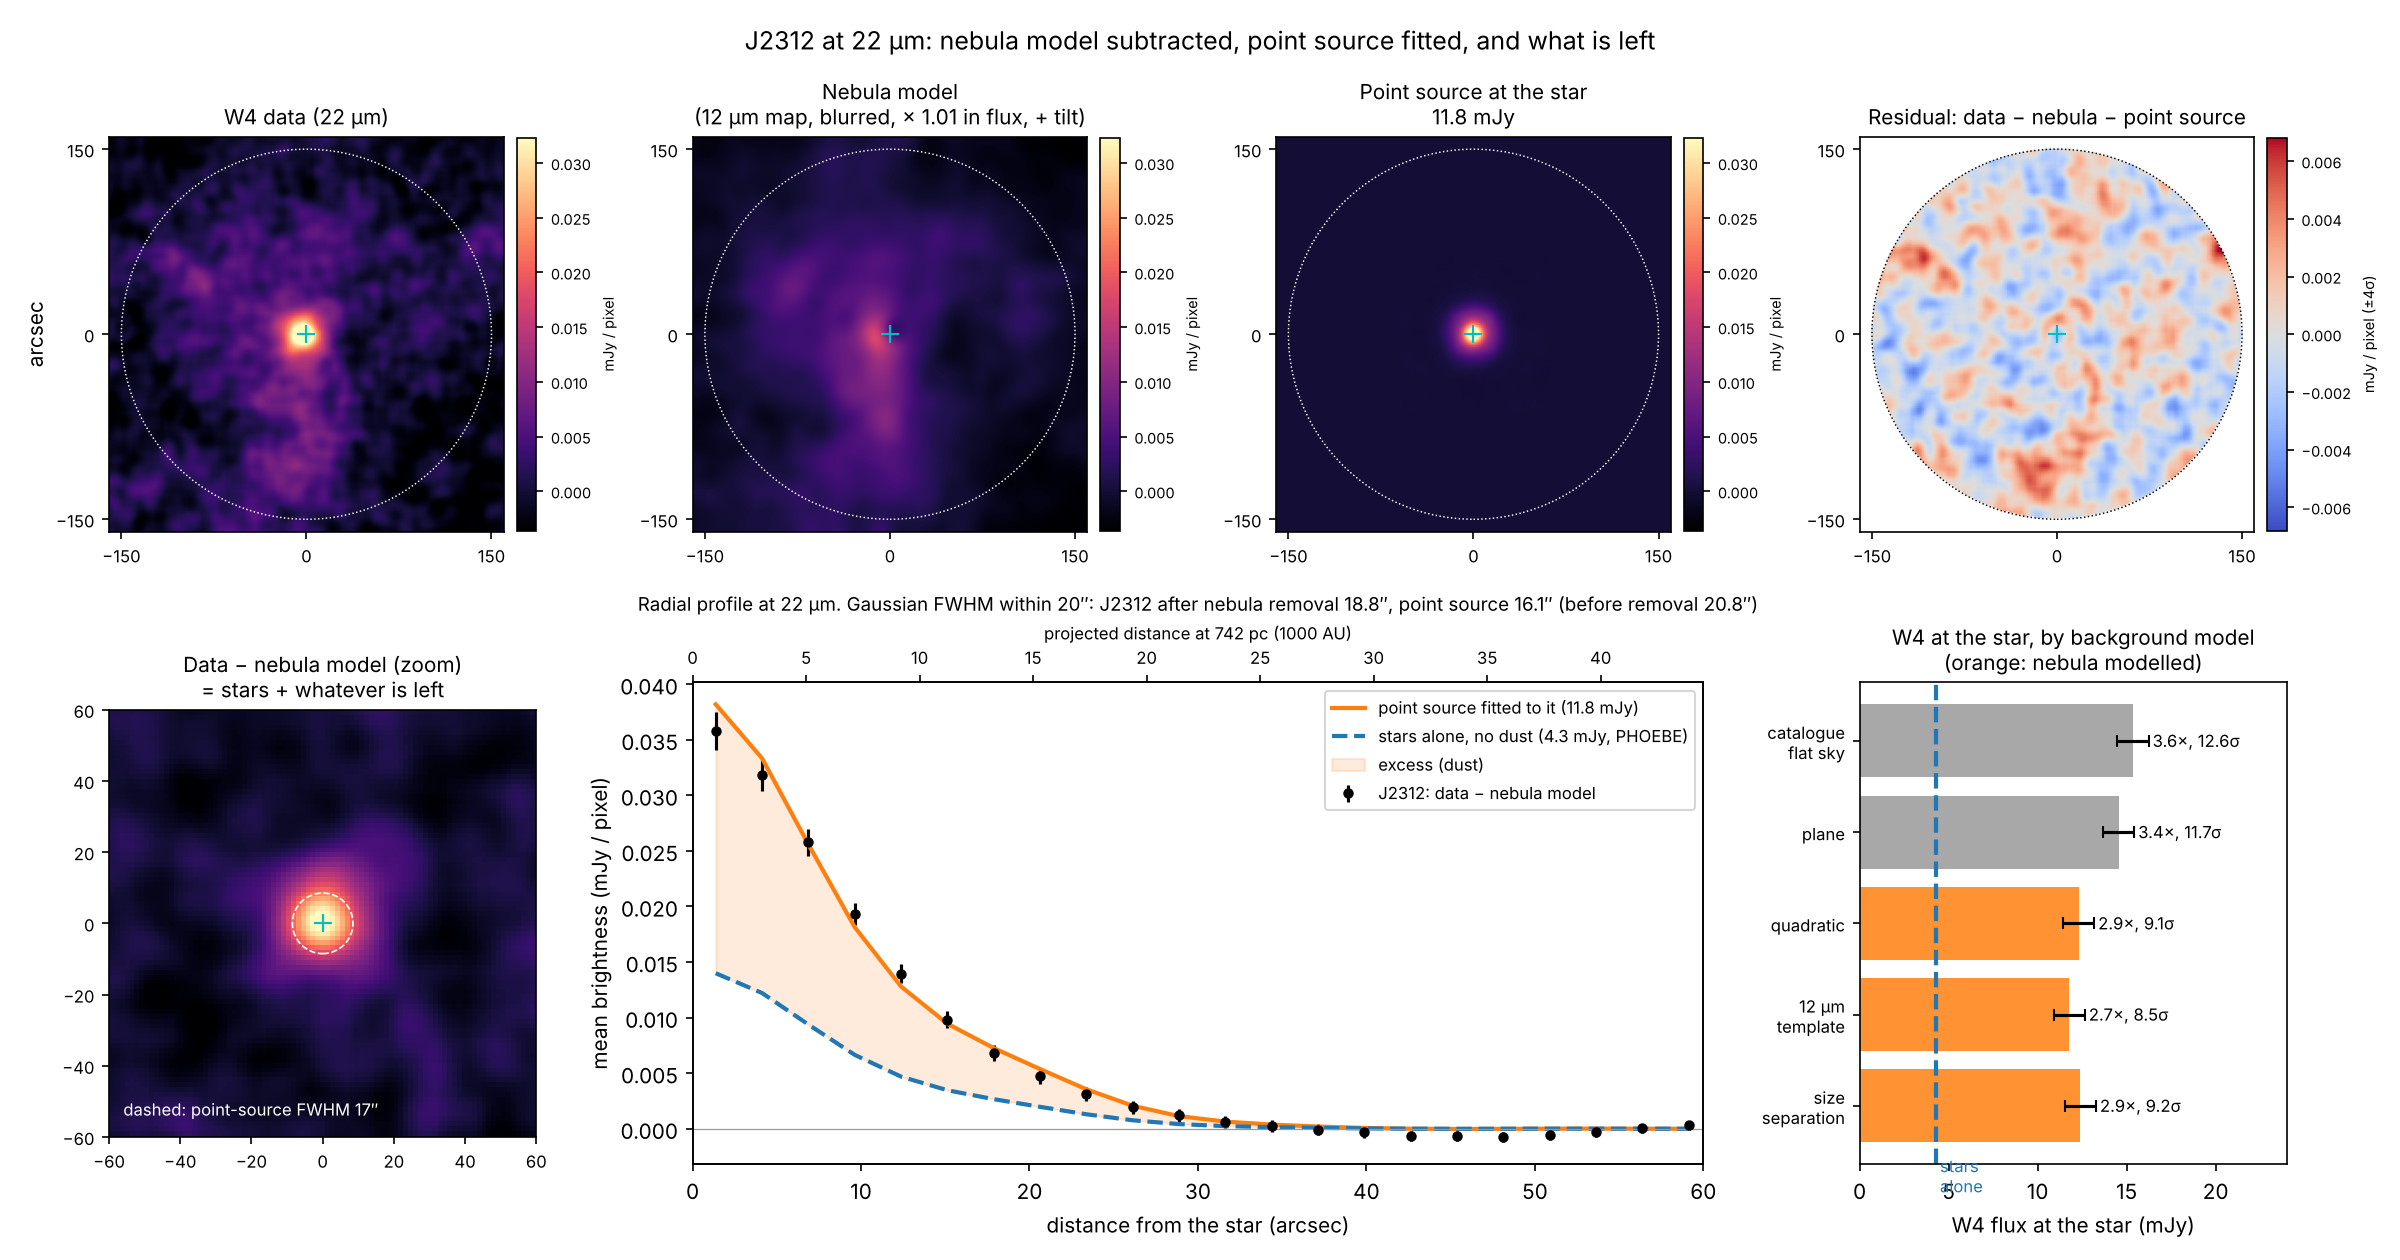
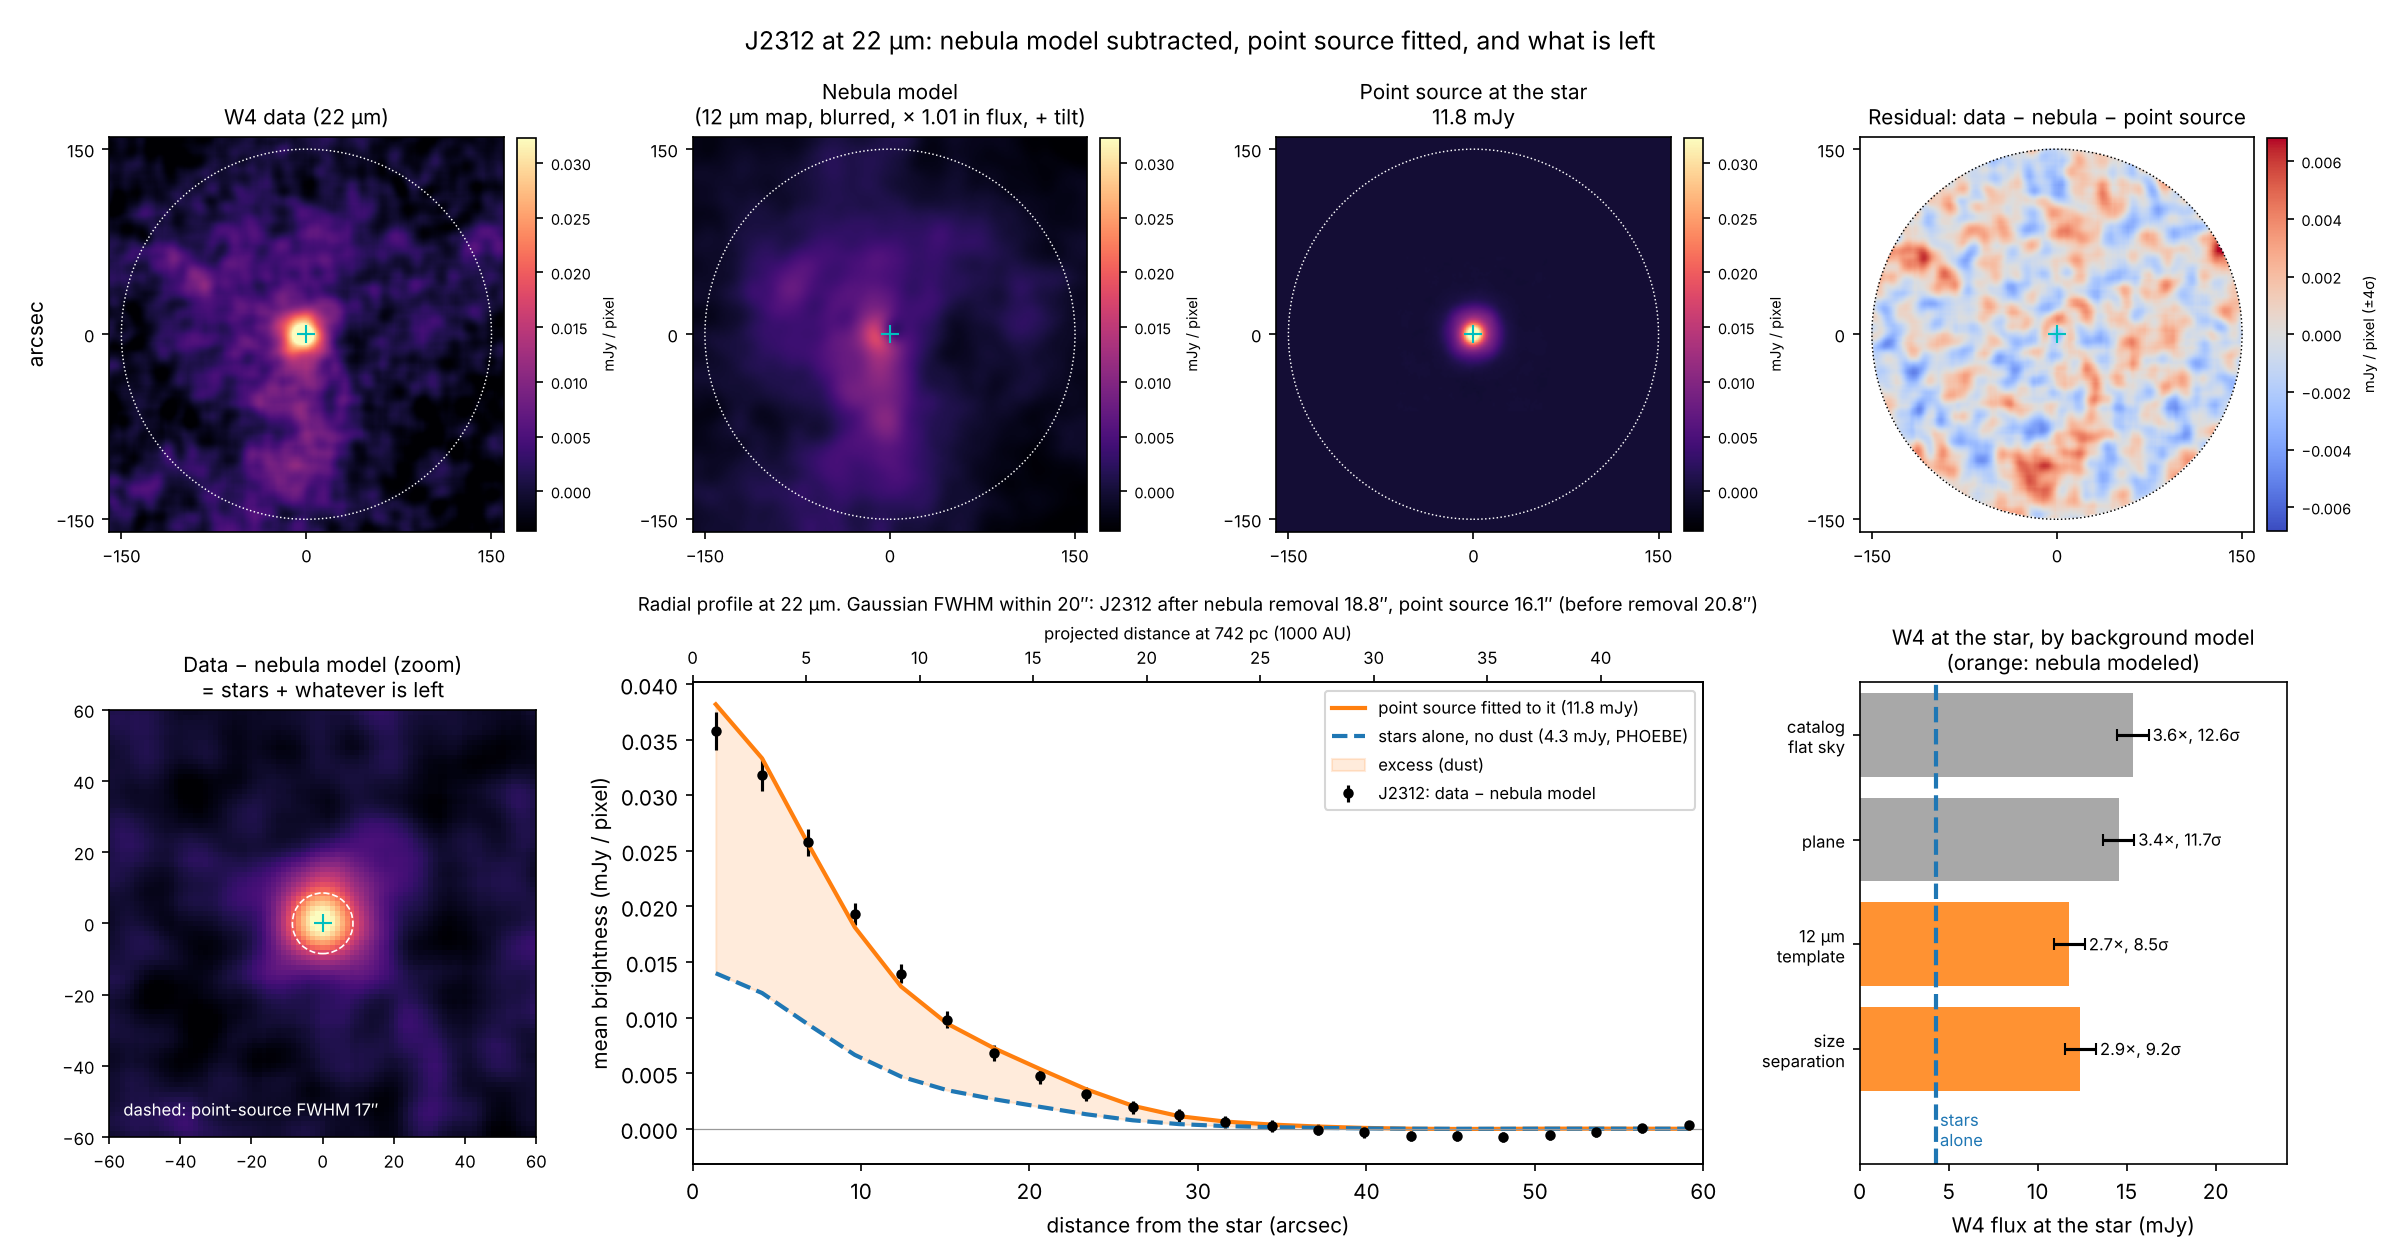
J2312 model figure: drop quadratic bar, American spelling
Claude-Session: https://claude.ai/code/session_01Cmkate8GQQC1zZ9rTMPdve

diff --git a/src/checks/j2312_model_figure.py b/src/checks/j2312_model_figure.py
@@ -106,17 +106,17 @@ ax2.tick_params(labelsize=8)
 
 # flux comparison
 ax = fig.add_subplot(gs[1, 3])
-names = ["catalogue\nflat sky", "plane", "quadratic", "12 µm\ntemplate", "size\nseparation"]
-vals = [15.36, 14.55, 12.3, F_B, 12.4]
-cols = ["0.6", "0.6", "C1", "C1", "C1"]
+names = ["catalog\nflat sky", "plane", "12 µm\ntemplate", "size\nseparation"]
+vals = [15.36, 14.55, F_B, 12.4]
+cols = ["0.6", "0.6", "C1", "C1"]
 y = np.arange(len(names))
 ax.barh(y, vals, xerr=m.E_CAT, color=cols, alpha=0.85, capsize=3)
-ax.axvline(m.F_PHOT, color="C0", ls="--", lw=2); ax.text(m.F_PHOT + 0.2, len(names) - 0.45, "stars\nalone", color="C0", fontsize=8, va="top")
+ax.axvline(m.F_PHOT, color="C0", ls="--", lw=2); ax.text(m.F_PHOT + 0.2, len(names) - 0.42, "stars\nalone", color="C0", fontsize=8, va="top")
 for yi, vv in zip(y, vals):
     ax.text(vv + 1.1, yi, f"{vv / m.F_PHOT:.1f}×, {(vv - m.F_PHOT) / m.E_CAT:.1f}σ", va="center", fontsize=8)
-ax.set_yticks(y); ax.set_yticklabels(names, fontsize=8); ax.invert_yaxis()
+ax.set_yticks(y); ax.set_yticklabels(names, fontsize=8); ax.set_ylim(len(names) + 0.1, -0.5)
 ax.set_xlim(0, 24); ax.set_xlabel("W4 flux at the star (mJy)")
-ax.set_title("W4 at the star, by background model\n(orange: nebula modelled)", fontsize=10)
+ax.set_title("W4 at the star, by background model\n(orange: nebula modeled)", fontsize=10)
 
 fig.suptitle("J2312 at 22 µm: nebula model subtracted, point source fitted, and what is left", fontsize=12)
 fig.tight_layout()
